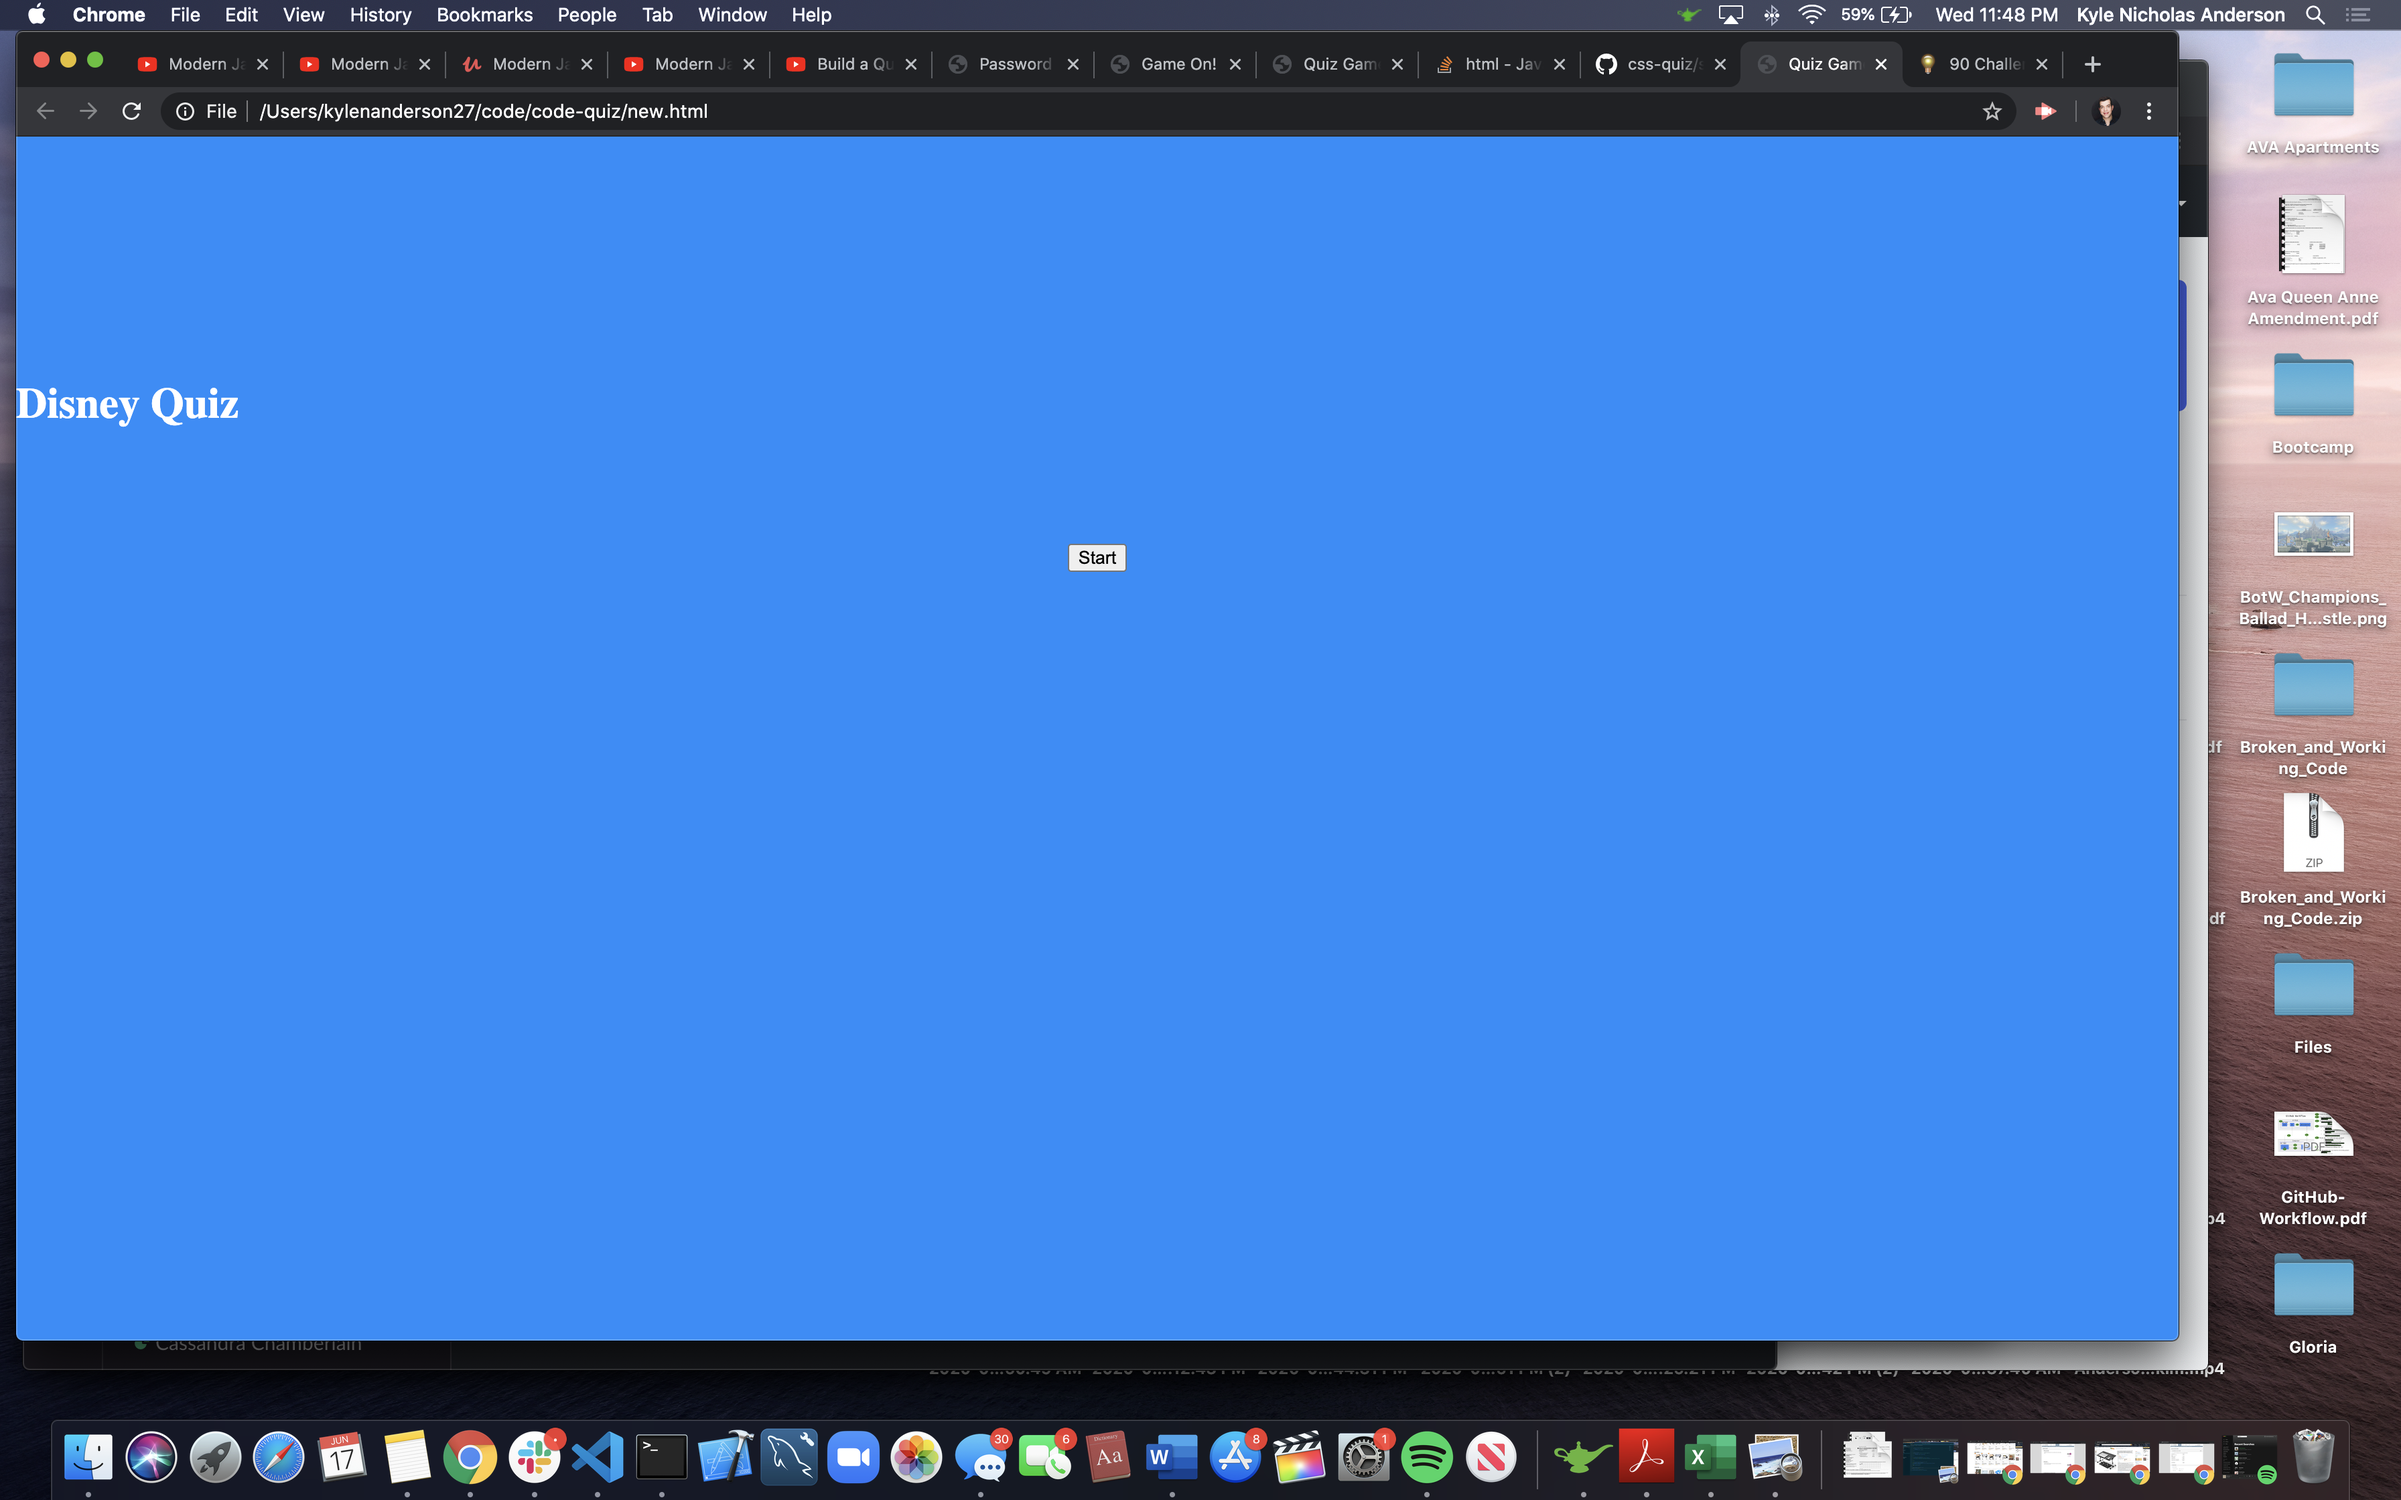
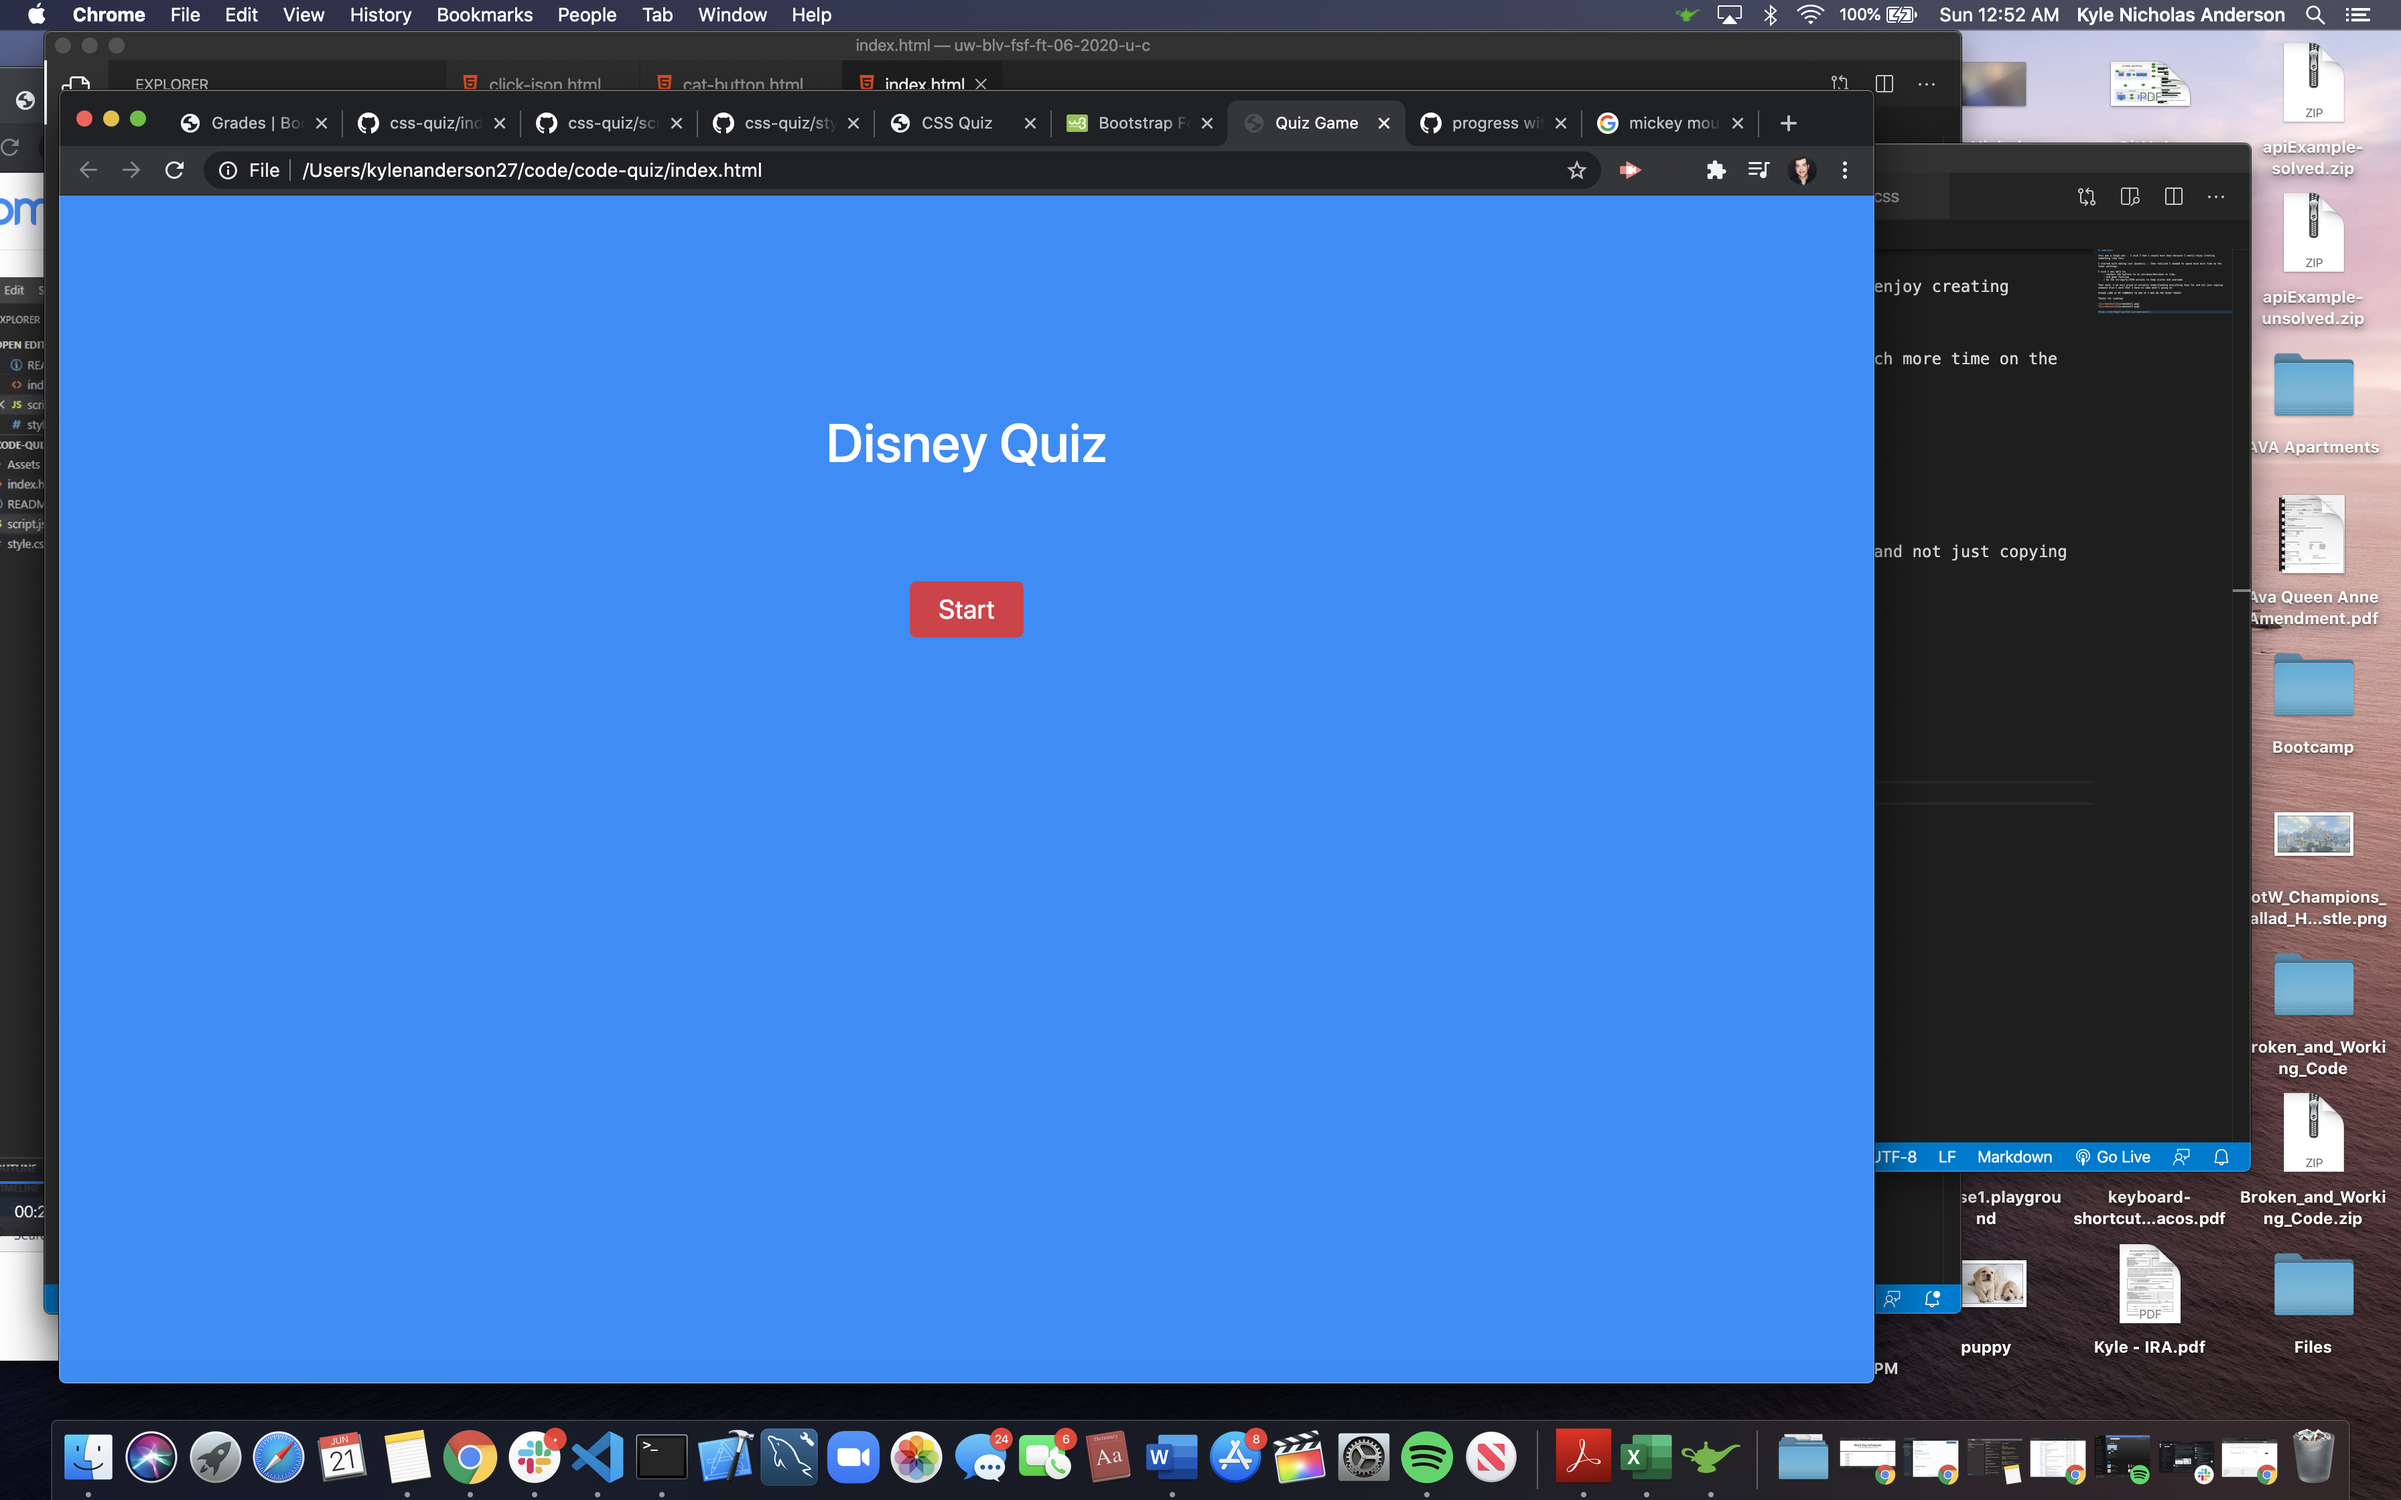
so close

Changed region(s): [[0.0, 0.0, 1.0, 1.0], [0.375, 0.3438, 0.4688, 0.4375], [0.3438, 0.2812, 0.4688, 0.3125]]

diff --git a/index.html b/index.html
@@ -10,7 +10,7 @@
 <body>
     <h1>Disney Quiz</h1>
     <h2 class="time"></h2>
-    <div class="container" style="display: none;">
+    <div class="container">
         <div class="card" id="question-container">
             <div class="card-body">
                 <img src="https://lumiere-a.akamaihd.net/v1/images/open-uri20150422-20810-5geuz6_4e1954c9.jpeg?region=0,0,600,600" alt="Mickey Mouse!" class="card-img-top" width="100" height="500">

diff --git a/new.js b/new.js
@@ -23,6 +23,8 @@ var score = 0;
 var userName = "";
 // var userAr = JASON.parse(localStorage.getItem("user")) || [];
 
+questionsContainer.style.display="none"
+
 // all questions and answers
 var myQuestions=[
     {
@@ -151,7 +153,7 @@ function setTime() {
   
       if(timeRemaining === 0) {
         clearInterval(timerInterval);
-        endGame();
+        // endGame();
       }
   
     }, 1000);
